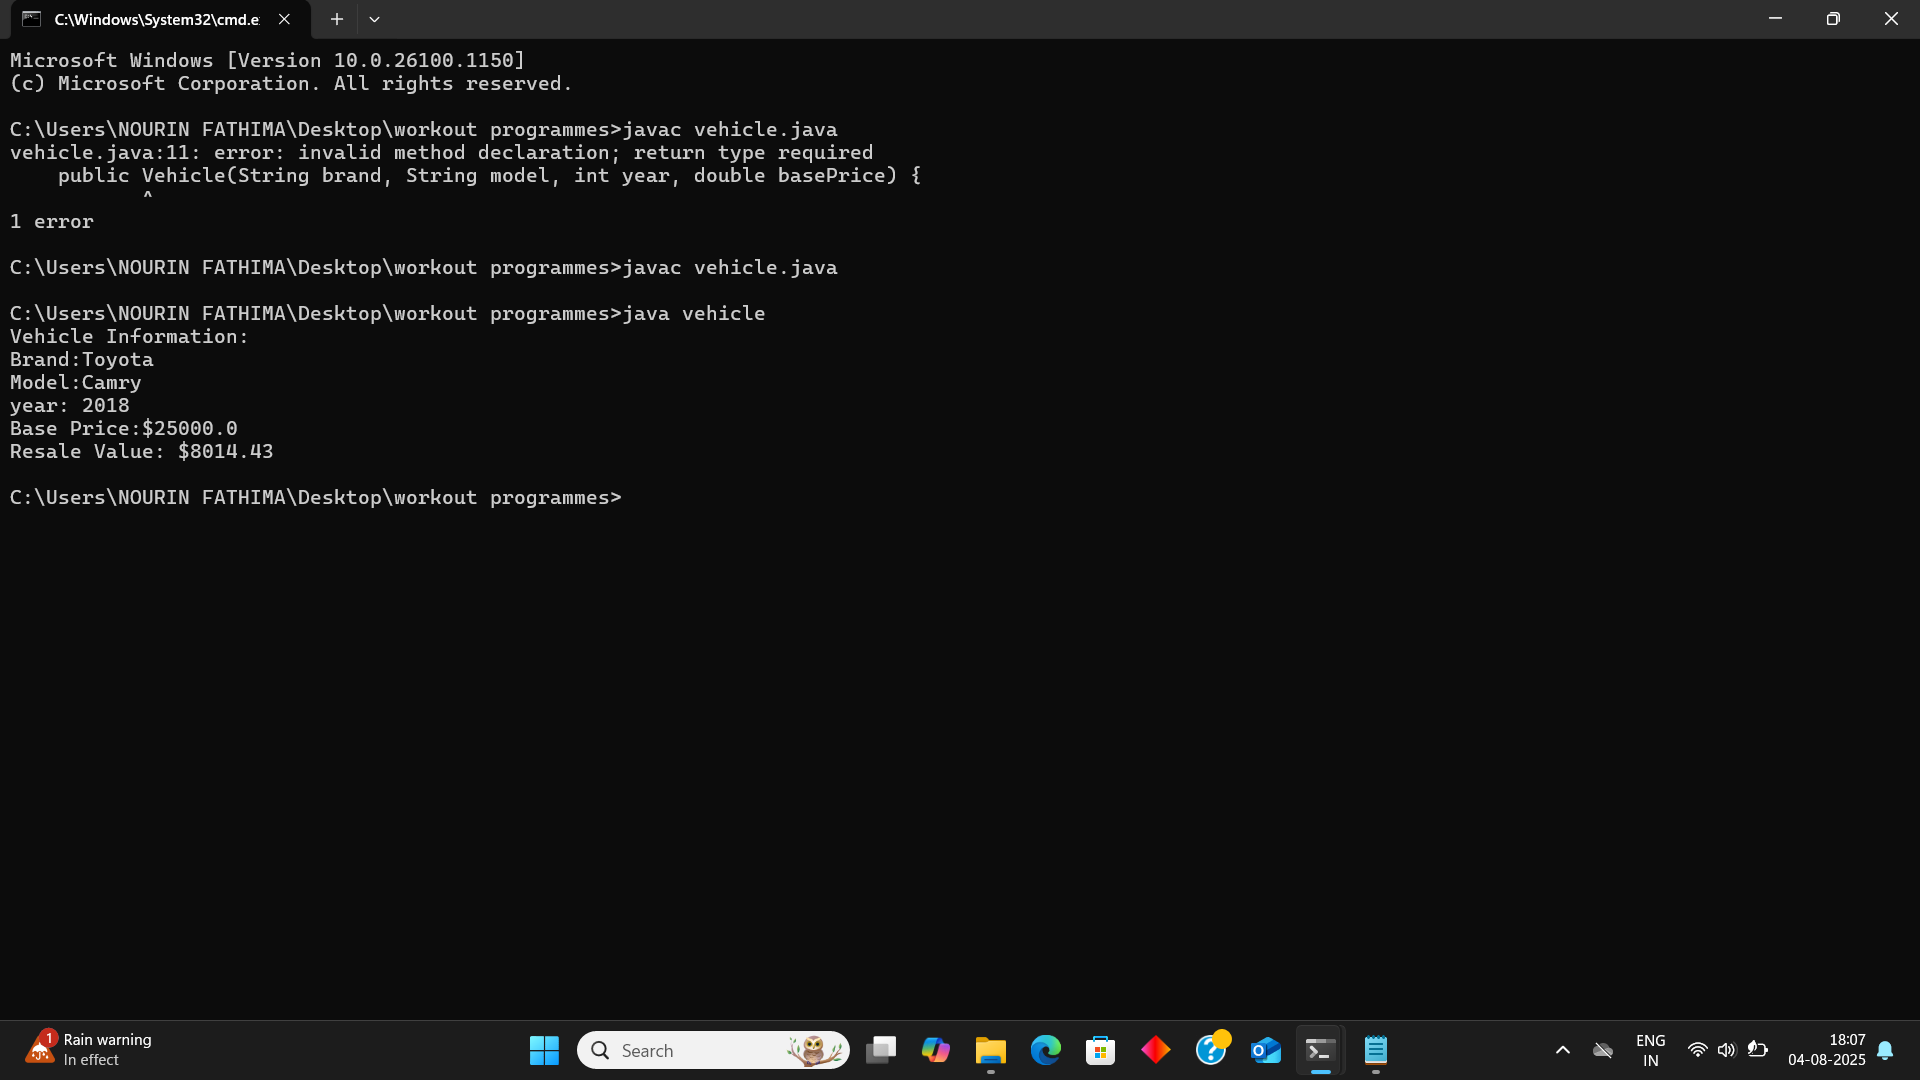
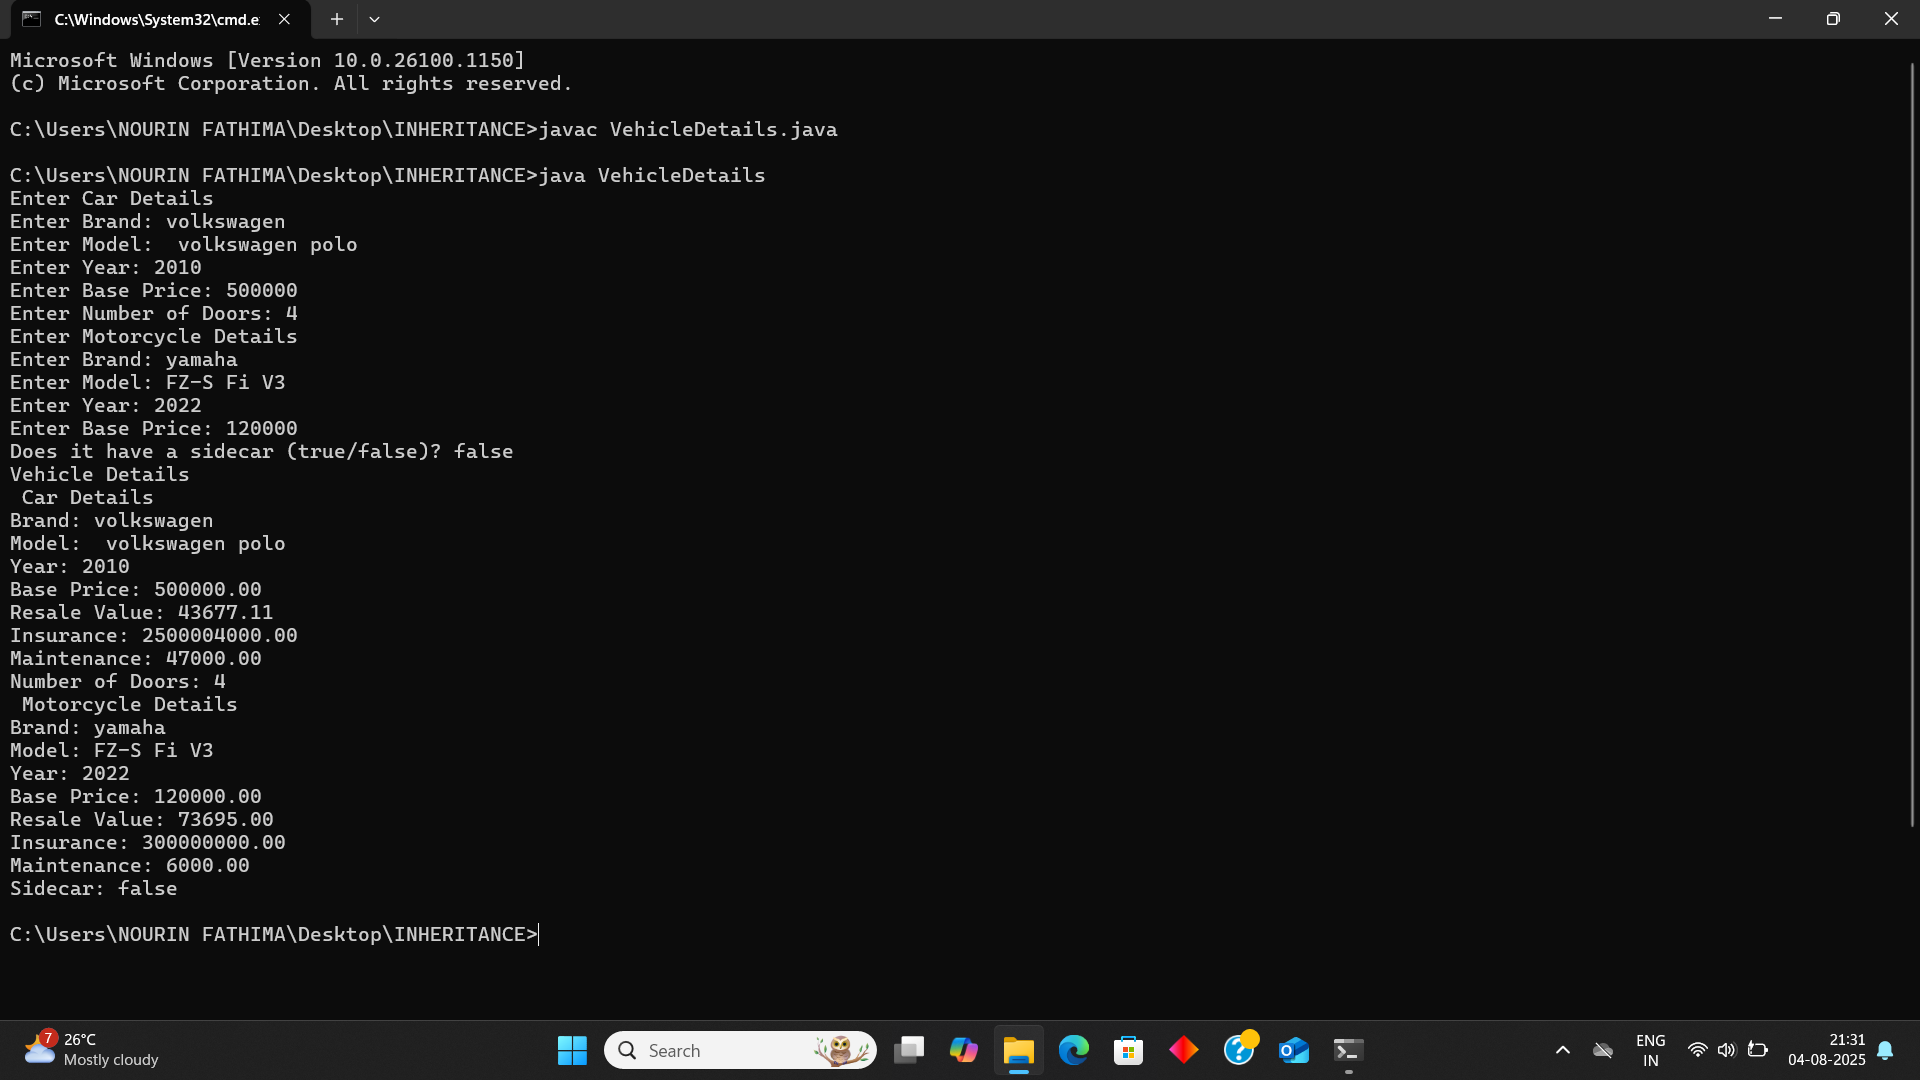
inheritance

diff --git a/Inheritance pgms/VehicleDetails.java b/Inheritance pgms/VehicleDetails.java
@@ -1,0 +1,140 @@
+import java.util.Scanner;
+import java.time.Year;
+
+class Vehicle {
+    String brand;
+    String model;
+    int year;
+    double basePrice;
+
+    Vehicle(String brand, String model, int year, double basePrice) {
+        this.brand = brand;
+        this.model = model;
+        this.year = year;
+        this.basePrice = basePrice;
+    }
+
+    void displayInfo() {
+        System.out.println("Brand: " + brand);
+        System.out.println("Model: " + model);
+        System.out.println("Year: " + year);
+        System.out.printf("Base Price: %.2f\n", basePrice);
+    }
+
+    void calculateResaleValue() {
+        int currentYear = Year.now().getValue();
+        int age = currentYear - year;
+        double resaleValue = basePrice * Math.pow(0.85, age);
+        System.out.printf("Resale Value: %.2f\n", resaleValue);
+    }
+}
+
+class Car extends Vehicle {
+    int numberOfDoors;
+
+    Car(String brand, String model, int year, double basePrice, int numberOfDoors) {
+        super(brand, model, year, basePrice);
+        this.numberOfDoors = numberOfDoors;
+    }
+
+    void calculateInsurance() {
+        // More realistic formula
+        double insurance = 5000* basePrice + 1000 * numberOfDoors;
+        System.out.printf("Insurance: %.2f\n", insurance);
+    }
+
+    void calculateMaintenanceCost() {
+        int age = Year.now().getValue() - year;
+        double maintenanceCost = 3000 * age + 500 * numberOfDoors;
+        System.out.printf("Maintenance: %.2f\n", maintenanceCost);
+    }
+
+    void totalDetails() {
+        System.out.println(" Car Details ");
+        displayInfo();
+        calculateResaleValue();
+        calculateInsurance();
+        calculateMaintenanceCost();
+        System.out.println("Number of Doors: " + numberOfDoors);
+    }
+}
+
+class Motorcycle extends Vehicle {
+    boolean hasSidecar;
+
+    Motorcycle(String brand, String model, int year, double basePrice, boolean hasSidecar) {
+        super(brand, model, year, basePrice);
+        this.hasSidecar = hasSidecar;
+    }
+
+    void calculateInsurance() {
+        double insurance;
+        if (hasSidecar) {
+            insurance = 2500* basePrice + 1500;
+        } else {
+            insurance = 2500* basePrice;
+        }
+        System.out.printf("Insurance: %.2f\n", insurance);
+    }
+
+    void calculateMaintenanceCost() {
+        int age = Year.now().getValue() - year;
+        double maintenanceCost;
+        if (hasSidecar) {
+            maintenanceCost = 2000 * age + 1000;
+        } else {
+            maintenanceCost = 2000 * age;
+        }
+        System.out.printf("Maintenance: %.2f\n", maintenanceCost);
+    }
+
+    void totalDetails() {
+        System.out.println(" Motorcycle Details");
+        displayInfo();
+        calculateResaleValue();
+        calculateInsurance();
+        calculateMaintenanceCost();
+        System.out.println("Sidecar: " + hasSidecar);
+    }
+}
+
+public class VehicleDetails {
+    public static void main(String args[]) {
+        Scanner sc = new Scanner(System.in);
+
+        // Car details input
+        System.out.println("Enter Car Details");
+        System.out.print("Enter Brand: ");
+        String carBrand = sc.nextLine();
+        System.out.print("Enter Model: ");
+        String carModel = sc.nextLine();
+        System.out.print("Enter Year: ");
+        int carYear = sc.nextInt();
+        System.out.print("Enter Base Price: ");
+        double carBasePrice = sc.nextDouble();
+        System.out.print("Enter Number of Doors: ");
+        int numberOfDoors = sc.nextInt();
+        sc.nextLine(); 
+        Car car = new Car(carBrand, carModel, carYear, carBasePrice, numberOfDoors);
+
+        
+        System.out.println("Enter Motorcycle Details");
+        System.out.print("Enter Brand: ");
+        String bikeBrand = sc.nextLine();
+        System.out.print("Enter Model: ");
+        String bikeModel = sc.nextLine();
+        System.out.print("Enter Year: ");
+        int bikeYear = sc.nextInt();
+        System.out.print("Enter Base Price: ");
+        double bikeBasePrice = sc.nextDouble();
+        System.out.print("Does it have a sidecar (true/false)? ");
+        boolean hasSidecar = sc.nextBoolean();
+
+        Motorcycle motorcycle = new Motorcycle(bikeBrand, bikeModel, bikeYear, bikeBasePrice, hasSidecar);
+
+                System.out.println("Vehicle Details");
+        car.totalDetails();
+        motorcycle.totalDetails();
+
+            }
+}
